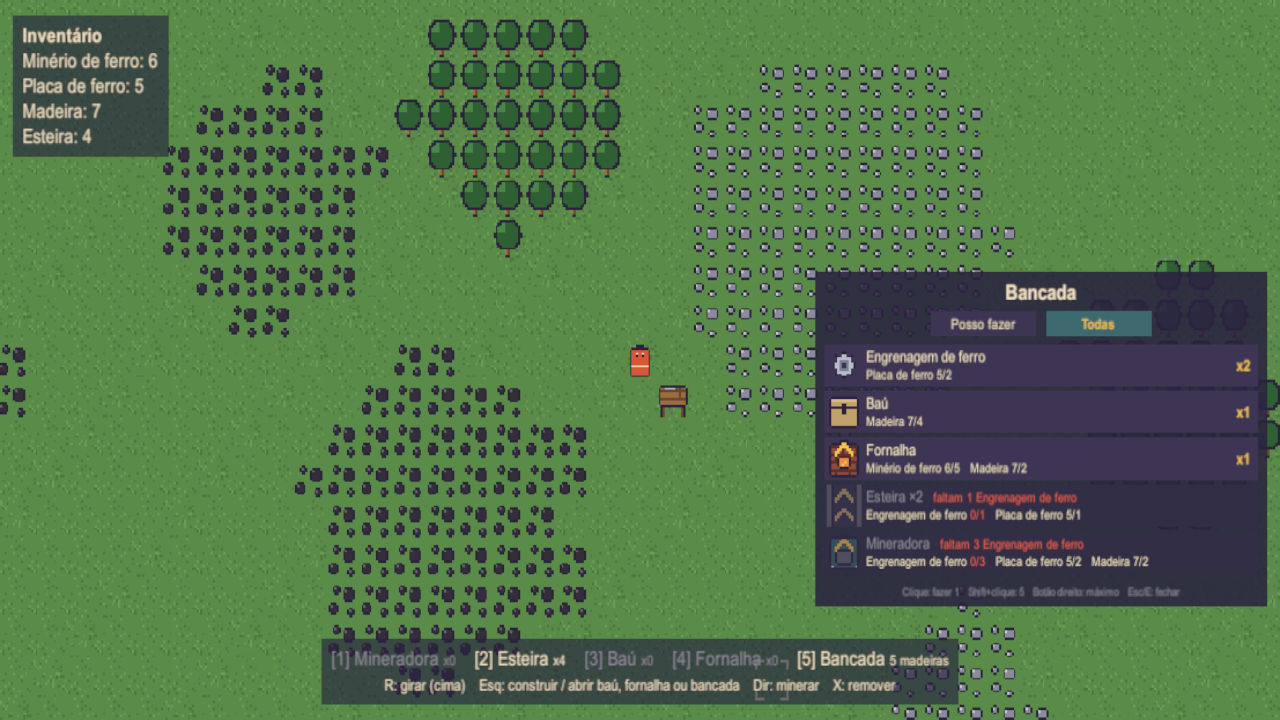
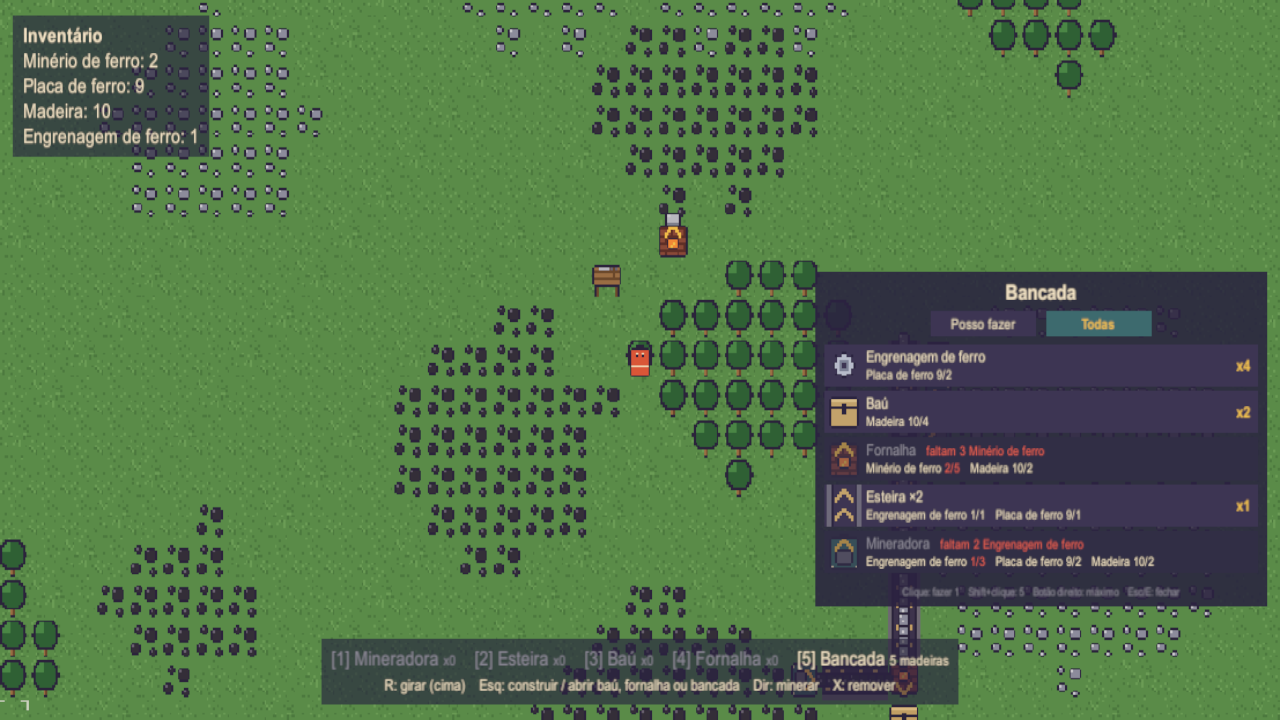
Docs: refresh README screenshots for the wood start and crafting

diff --git a/README.md b/README.md
@@ -2,7 +2,7 @@
 
 Protótipo de jogo de automação em visão de cima, feito em **Unity 6** (URP 2D). Você começa cortando árvores e monta uma bancada de criação. Depois minera ferro e carvão, funde o minério em placas numa fornalha e cria na bancada as mineradoras, esteiras e baús que automatizam tudo.
 
-![Fábrica com mineradoras alimentando uma esteira que desce até um baú](docs/images/fabrica.png)
+![Fábrica: mineradoras de ferro numa esteira que desce até a fornalha, uma linha de carvão entrando pelo lado e as placas saindo para um baú](docs/images/fabrica.png)
 
 ## O que tem
 
@@ -40,17 +40,13 @@ Protótipo de jogo de automação em visão de cima, feito em **Unity 6** (URP 2
 
   A hotbar mostra quantos itens de cada construção você tem ("x3"; a bancada mostra o custo em madeira) e fica cinza quando você não tem nenhum.
 
-| Mineração manual | Esteira cheia trava a de trás |
+| Começo: bancada e fornalha queimando madeira | Janela da fornalha |
 |---|---|
-| ![Jogador minerando um tile de minério, com a barra de progresso](docs/images/mineracao-manual.png) | ![Linha com curva entregando num baú e uma linha travada sem saída](docs/images/esteiras.png) |
-
-| Conteúdo do baú ao passar o mouse | Janela da fornalha |
-|---|---|
-| ![Painel no canto mostrando o conteúdo do baú](docs/images/bau.png) | ![Janela da fornalha com slots de minério, carvão e placas](docs/images/fornalha.png) |
+| ![Jogador ao lado do bosque com uma bancada e uma fornalha recém-construídas](docs/images/inicio.png) | ![Janela da fornalha com os slots de minério, combustível e placas e as barras de fusão e chama](docs/images/fornalha.png) |
 
 | Bancada de criação |
 |---|
-| ![Janela da bancada com a lista de receitas, as que faltam ingredientes em cinza com o que falta em vermelho](docs/images/bancada.png) |
+| ![Janela da bancada com a lista de receitas; as que faltam ingredientes ficam em cinza com o que falta em vermelho](docs/images/bancada.png) |
 
 ## Controles
 
